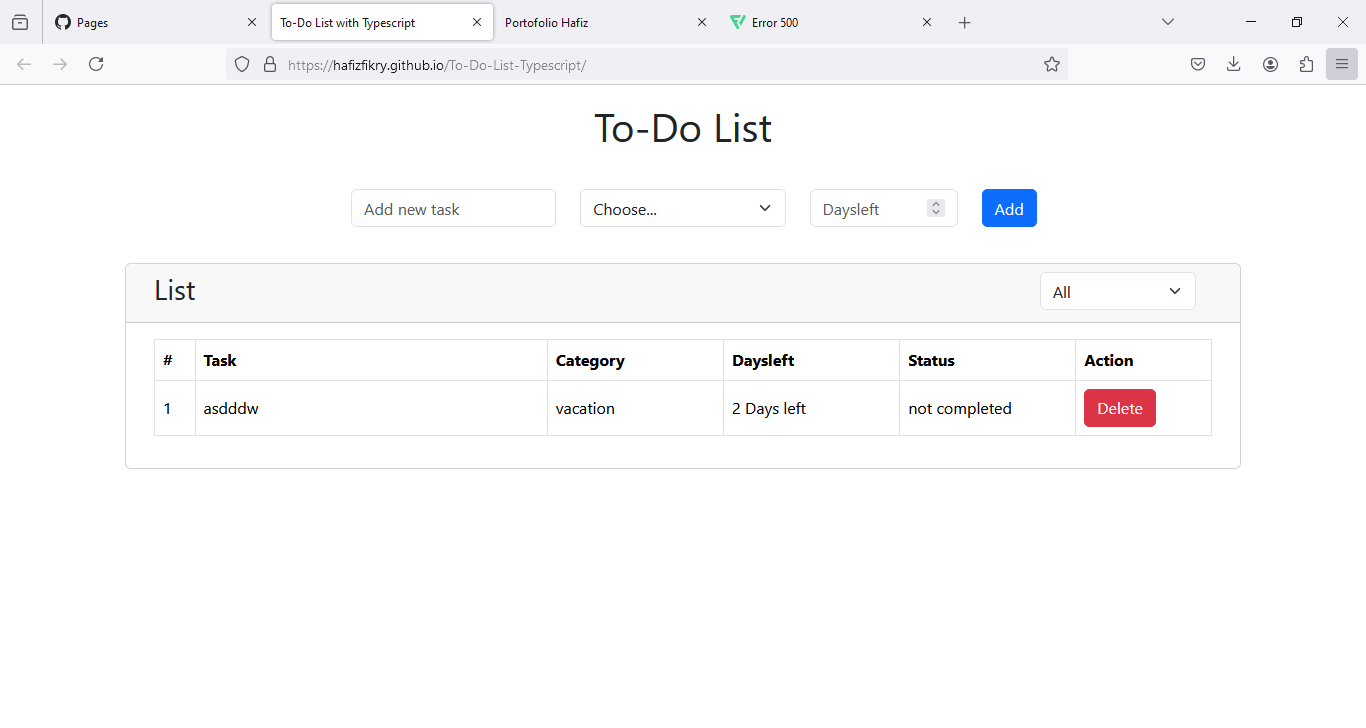
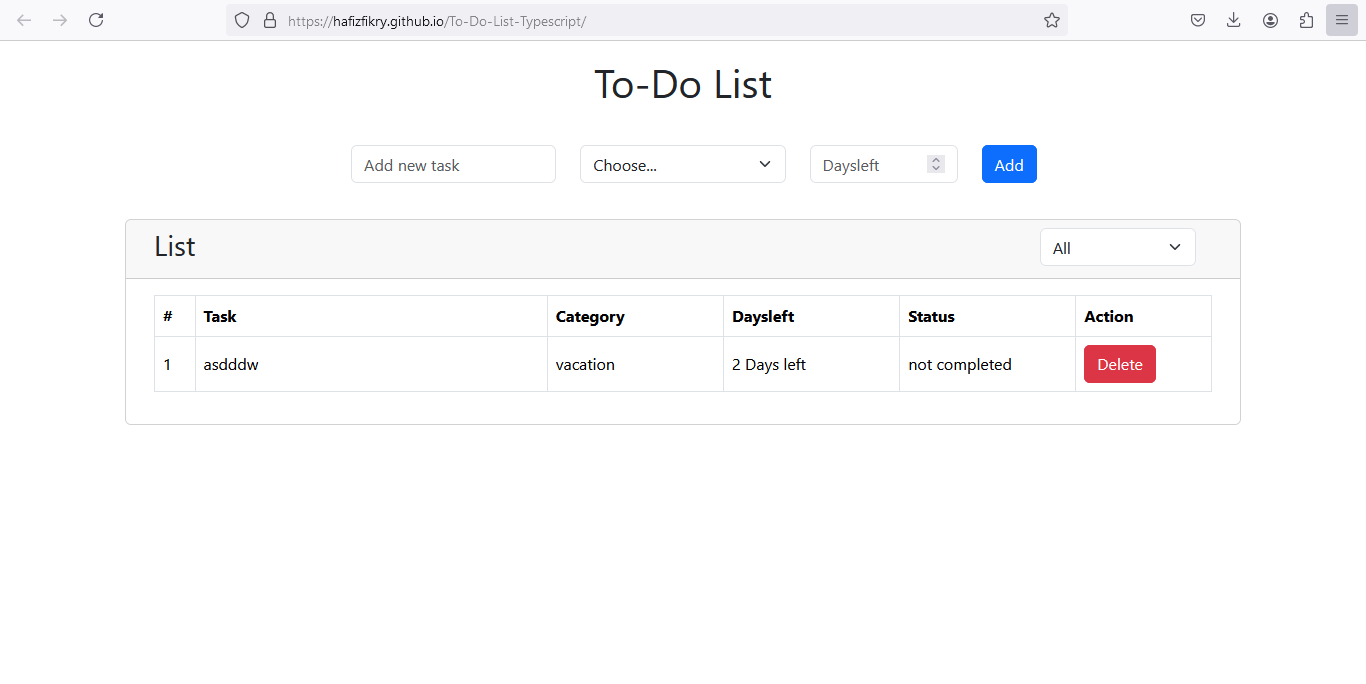
edit foto to-do-lisst
zz

diff --git a/index.html b/index.html
@@ -506,7 +506,8 @@
 						<div data-project="p5" class="showcase__stage">
 							<div class="showcase__slider">
 								<ul class="rslides">
-									<li><img src="content/To-Do-List.png" style="width: 1366px; height: auto;"></li>
+									<!-- <li><img src="content/To-Do-List.png" style="width: 1366px; height: auto;"></li> -->
+									<li><img src="content/To-Do-List-with-Typescript.png" style="width: 1366px; height: auto;"></li>
 								</ul>
 							</div>
 							<div class="showcase__infos-wrapper">
